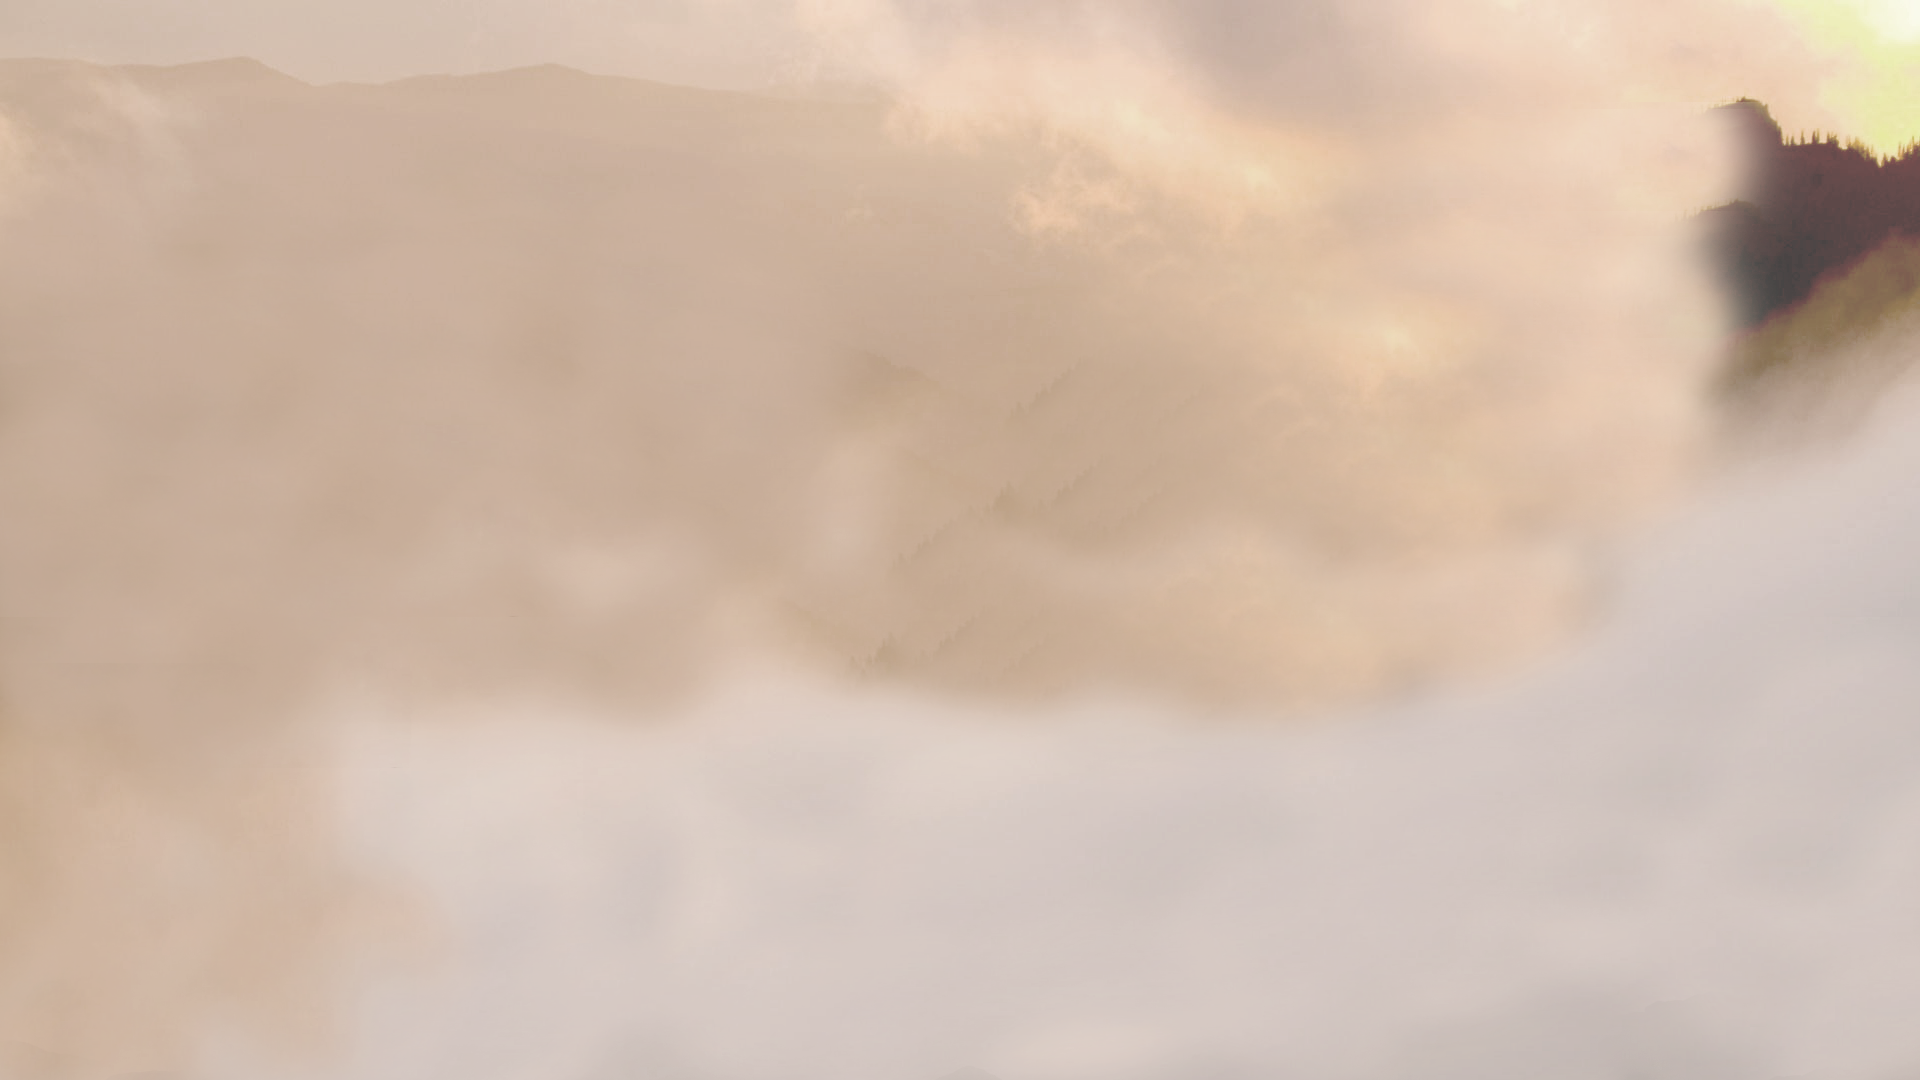
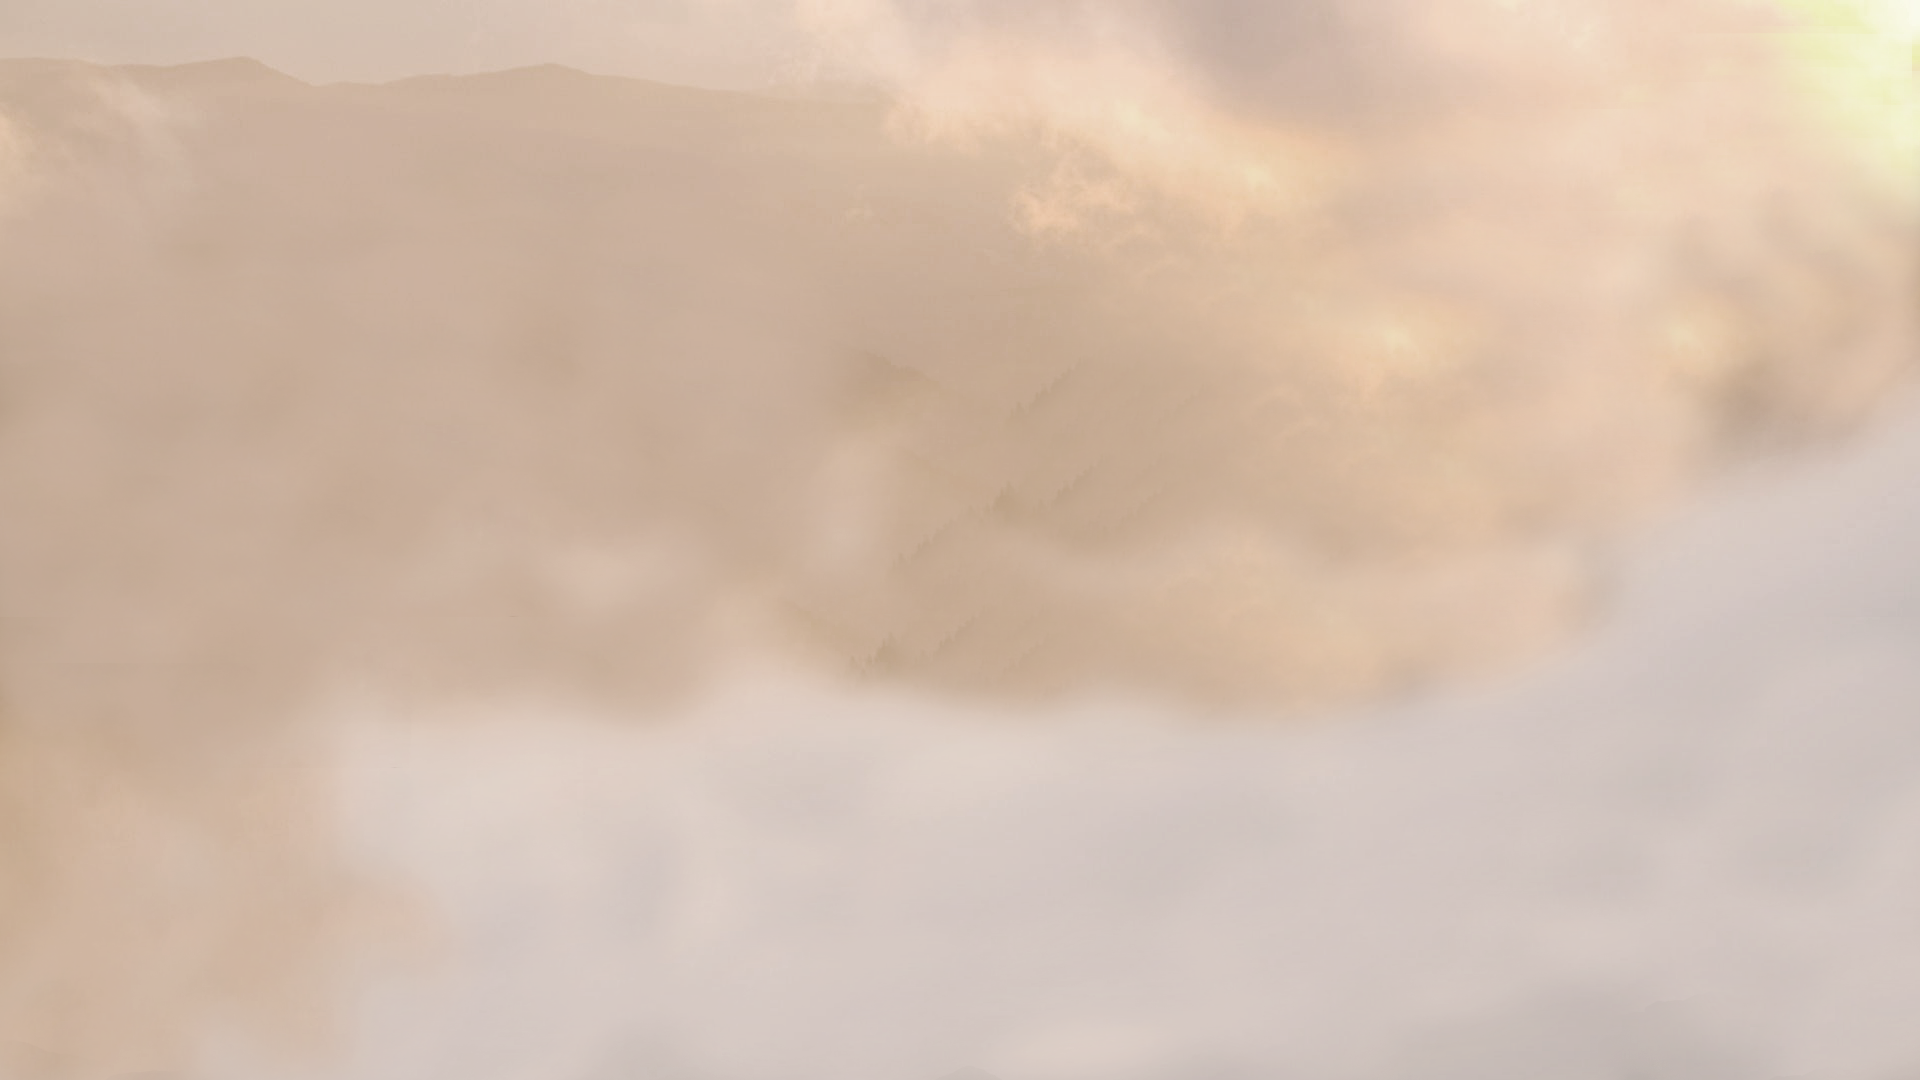
size update

Changed region(s): [[0.875, 0.0306, 1.0, 0.3667]]

diff --git a/style.css b/style.css
@@ -18,11 +18,14 @@ img{
 }
 
 #layer_1 {
-background: url(images/camada1.png) no-repeat 0px 350px;
+background: url(images/camada1.png) no-repeat 0px 100%;
+background-size: 100%;
 }
 #layer_2 {
-    background: url(images/camada2.png) no-repeat 0px 40px;
+    background: url(images/camada2.png) no-repeat 0px 4em;
+    background-size: 100%;
 }
 #layer_3 {
     background: url(images/camada3.png) no-repeat 0px 0px;
+    background-size: 100%;
 }
